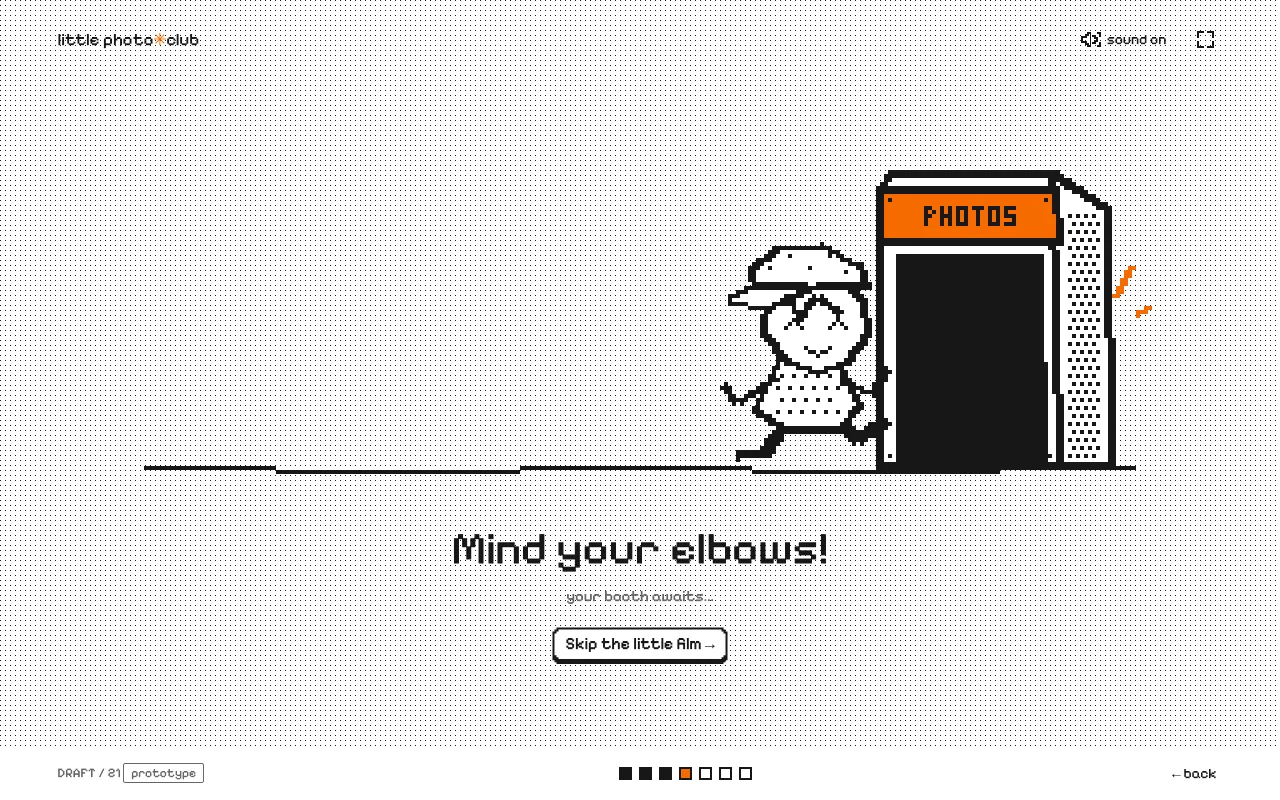
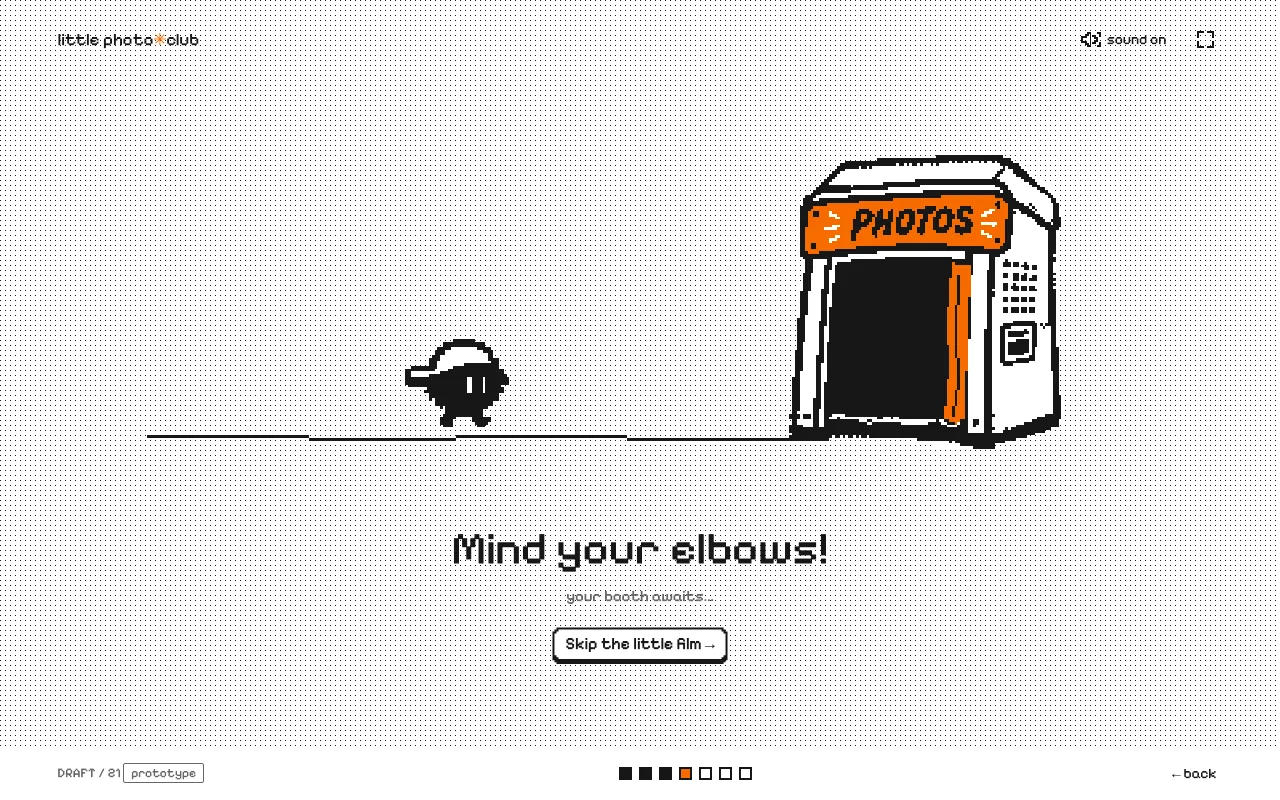
work: finish the Little Photo Club case study around draft 27
Make draft 27 the final design and update the cover, flow and counts to 25
numbered versions. Add three decisions: the rough cuts (generic doodle, then
the cast's man in v4), the silhouette booth-entrance animation (drafts 22-25)
and the printing strip with a full-size review (drafts 26-27). Fix the draft 13
wording so only the second version goes 1-bit, and update the outcome for the
finished v1 design. Reflection stays 'TODO' (hidden); still unpublished.

Changed region(s): [[0.125, 0.1875, 0.9062, 0.5938]]

diff --git a/src/content/work/little-photo-club.ts b/src/content/work/little-photo-club.ts
@@ -1,25 +1,27 @@
 import type { CaseStudy } from './types.ts'
 
 /*
- * Drafted from fourteen numbered HTML prototypes (drafts 07–21, Nov 25–26,
- * 2026), the four character sheets and the Figma case-study board. Screens are
- * Chrome captures at 1280×800; the camera images use the app's own "demo view"
- * so no webcam feed is shown. Reasons for each change are only written where
- * Giancarlo has said them (portrait, camera, reveal, click feel). The reveal's
- * reasoning is the developer's inference from the code; confirm it matches
- * the intent. Sourced figures: DSi 41M+ units (Nintendo, via Wikipedia), 44M
- * Flipnotes archived (Nintendo Life), photobooth revival (The Week).
- * The reveal reasoning was accepted for now and can change later.
- * Still to write, then flip `published` to true:
+ * Drafted from 25 numbered HTML prototypes (rough cuts v1–v6 and drafts 07–27,
+ * Nov 25–26, 2026; v5 and draft 14 were never recovered), the four character
+ * sheets and the Figma case-study board. Draft 27 is the final design. Screens
+ * are Chrome captures at 1280×800; the camera images use the app's own "demo
+ * view" so no webcam feed is shown. Reasons are written where Giancarlo has
+ * said them (portrait, camera, click feel); the reveal's reasoning is the
+ * developer's inference from the code and was accepted for now; the booth
+ * entrance and print animation are described from what the drafts show.
+ * Sourced figures: DSi 41M+ units (Nintendo, via Wikipedia), 44M Flipnotes
+ * archived (Nintendo Life), photobooth revival (The Week).
+ * Still to do before flipping `published` to true:
  *  - reflection (hidden while 'TODO')
- * Unpublished while the prototype is still changing.
+ *  - a Figma link in `links` once the board is shared
+ * Unpublished until then.
  */
 export const littlePhotoClub: CaseStudy = {
   slug: 'little-photo-club',
   published: false,
   title: 'Little Photo Club',
   summary:
-    'A nostalgic photobooth for the browser, built around a cast of four characters. Guests step in as the cast, take a four-frame strip and pick it up from a pixel dispenser. The characters came first, and their halftone ink set the look of everything else.',
+    'A nostalgic photobooth for the browser, built around a cast of four characters. Guests step in as the cast, take a four-frame strip and pick it up from a pixel dispenser. The cast’s halftone ink set the look of everything else.',
   cover: {
     type: 'image',
     src: 'cover.webp',
@@ -28,12 +30,12 @@ export const littlePhotoClub: CaseStudy = {
   snapshot: {
     role: 'Lead designer. I designed and built all of it myself: the characters, the interface and the working prototype.',
     team: 'Solo project',
-    timeline: 'Nov 25–26, 2026 · 14 numbered prototype drafts',
+    timeline: 'Nov 25–26, 2026 · 25 numbered versions',
     tools: ['HTML', 'CSS', 'JavaScript', 'Canvas', 'Web Audio'],
     platforms: ['Web (desktop browser)'],
     metrics: [
       { value: '4', label: 'characters' },
-      { value: '14', label: 'prototype drafts' },
+      { value: '25', label: 'numbered versions' },
       { value: '7', label: 'screens, start to finish' },
       { value: '1–4', label: 'guests per strip' },
     ],
@@ -51,7 +53,7 @@ export const littlePhotoClub: CaseStudy = {
     {
       title: 'Draw the cast first, then build the booth around it',
       why:
-        'The four characters were designed before any screen existed: a man, a woman, a baby and a cat, each on a sheet with expressions, back views, eye studies and a three-part palette. Black ink, halftone dots and one orange accent, with orange burst lines carrying the emotion.\n\nThat system shaped the pixel direction of the whole product. Later screens didn’t get a style of their own, they had to match the cast.',
+        'The four characters were designed as a set before the product took its look: a man, a woman, a baby and a cat, each on a sheet with expressions, back views, eye studies and a three-part palette. Black ink, halftone dots and one orange accent, with orange burst lines carrying the emotion.\n\nThat system shaped the pixel direction of the whole product. Later screens didn’t get a style of their own, they had to match the cast.',
       media: {
         type: 'image',
         src: 'cast-sheets.webp',
@@ -71,6 +73,17 @@ export const littlePhotoClub: CaseStudy = {
       caption: 'One to four guests: the cast assembles as the group grows.',
     },
     {
+      title: 'Start rough, then swap in the cast',
+      why:
+        'The first rough cuts already had the whole flow, from welcome to email, but the guest portrait was a generic curly-haired doodle on a cream page with handwritten copy. The page went white by v2, and in v4 the cast’s man replaced the doodle.\n\nThe six-scene flow was there from the first cut and only gained the coin screen later. What kept changing was the look.',
+      media: {
+        type: 'image',
+        src: 'rough-cuts.webp',
+        alt: 'Three guest setup screens side by side. Left, rough cut v1: a cream page, the headline “Room for one more?” and a curly-haired doodle in a tilted frame. Middle, v3: the same doodle on a white page. Right, v4: the cast’s man in a backwards cap in the same frame.',
+      },
+      caption: 'The guest screen in rough cut v1 (left), v3 (middle) and v4 (right).',
+    },
+    {
       title: 'Pull the whole interface into the characters’ ink',
       why:
         'Draft 07 already used the character art, but around it the interface was smooth: a marker-script “Welcome!”, a line-art camera and a plain white page. Over drafts 08 to 11 the world moved into the cast’s halftone language. A dot-dither floor replaced the blank page, “Welcome” became pixelated handwriting that writes itself on, and a dithered pixel camera with an orange accent replaced the line-art one. Draft 09 also added a pixel coin as a launch screen in front of everything.',
@@ -84,35 +97,57 @@ export const littlePhotoClub: CaseStudy = {
     {
       title: 'Make the character itself 1-bit',
       why:
-        'Through draft 12 the portrait on the guest screen was the smooth illustration, tilted in a frame. In draft 13 it becomes a straight, hard-edged 1-bit image in a frame with a hard drop shadow.\n\nThe reason was visual cohesion. I wanted the whole app to map to one nostalgic Flipnote-style look, and a smooth, tilted illustration sitting in a pixel world broke it. The file size also fell from about 7MB to about 400KB in that draft.',
+        'Through draft 12 the portrait on the guest screen was the smooth illustration, tilted in a frame, and the first Draft 13 still had it. In the second Draft 13 it becomes a straight, hard-edged 1-bit image in a frame with a hard drop shadow.\n\nThe reason was visual cohesion. I wanted the whole app to map to one nostalgic Flipnote-style look, and a smooth, tilted illustration sitting in a pixel world broke it. The file size also fell from about 7MB to about 400KB in that draft.',
       media: {
         type: 'image',
         src: 'portrait-before-after.webp',
-        alt: 'Two guest setup screens side by side. Left, draft 12: a smooth, tilted character portrait. Right, draft 13: the same portrait as straight, hard-edged 1-bit art with a drop shadow.',
+        alt: 'Two guest setup screens side by side. Left, draft 12: a smooth, tilted character portrait. Right, the second Draft 13: the same portrait as straight, hard-edged 1-bit art with a drop shadow.',
       },
-      caption: 'The guest portrait, draft 12 (left) and draft 13 (right).',
+      caption: 'The guest portrait, draft 12 (left) and the second Draft 13 (right).',
     },
     {
       title: 'Turn the camera into an arcade booth',
       why:
-        'In draft 07 the camera step was a video box with two plain buttons. By draft 21 it sits inside a camera housing, with a bar of six filters, a doodle frame option and a graffiti mode for drawing on the photos afterward. The demo view, used here so no one’s face appears, shows the same character in both drafts: a generic doodle at first, then the cast in 1-bit.\n\nThe fun of this app is merging two things people already love. Photobooths are having a revival, with young people flocking back to them. The Nintendo DSi sold over 41 million units, and its camera came with playful “lens” effects. The filters echo that on purpose: Distortion and Mischief are named after DSi Camera lenses, and Flipnote Ink nods to Flipnote Studio, the DSi drawing app whose fan-built archive holds about 44 million Flipnotes.',
+        'In draft 07 the camera step was a video box with two plain buttons. By draft 27 it sits inside a camera housing, with a bar of six filters, a doodle frame option and a graffiti mode for drawing on the photos afterward. The demo view, used here so no one’s face appears, shows the same character in both drafts: a generic doodle at first, then the cast in 1-bit.\n\nThe fun of this app is merging two things people already love. Photobooths are having a revival, with young people flocking back to them. The Nintendo DSi sold over 41 million units, and its camera came with playful “lens” effects. The filters echo that on purpose: Distortion and Mischief are named after DSi Camera lenses, and Flipnote Ink nods to Flipnote Studio, the DSi drawing app whose fan-built archive holds about 44 million Flipnotes.',
       media: {
         type: 'image',
         src: 'camera-before-after.webp',
-        alt: 'Two camera screens side by side. Left, draft 07: a simple doodle face in a plain frame with a Take photos button. Right, draft 21: a pixel camera housing, a row of filter icons, a 1-bit character in the viewfinder and extra Graffiti and Doodle frame buttons.',
+        alt: 'Two camera screens side by side. Left, draft 07: a simple doodle face in a plain frame with a Take photos button. Right, draft 27: a pixel camera housing, a row of filter icons, a 1-bit character in the viewfinder and extra Graffiti and Doodle frame buttons.',
       },
-      caption: 'The camera step in demo view, draft 07 (left) and draft 21 (right).',
+      caption: 'The camera step in demo view, draft 07 (left) and draft 27 (right).',
+    },
+    {
+      title: 'Hop into the booth',
+      why:
+        'The beat between choosing the group and posing is a short animation of the guests entering the booth, which can be skipped. In draft 21 it was a single character walking toward a dark doorway. Over drafts 22 to 25 I rebuilt it: a redesigned booth with a PHOTOS sign and an orange curtain, and little black silhouettes that hop in one by one.',
+      media: {
+        type: 'image',
+        src: 'booth-sequence.webp',
+        alt: 'Three booth-entrance screens side by side, all captioned “Mind your elbows!”. Left, draft 21: a pixel character walking toward a dark booth. Middle, draft 22: a stick-figure silhouette approaching a redesigned booth with an orange PHOTOS sign. Right, draft 27: a small round silhouette next to the booth, which now has an orange curtain.',
+      },
+      caption: 'The booth entrance: draft 21 (left), draft 22 (middle) and draft 27 (right).',
     },
     {
       title: 'Make the reveal a moment',
       why:
-        'The strip never just appears. In every draft the reveal is a dispenser: the strip waits in the slot, and the guest has to pick it up, which is when the sound plays and the photos open. As the developer I treated that as a deliberate gate. Showing the result straight away would make the booth a photo viewer, but one click target at the slot turns it into a hand-off, the pause a real booth gives you before the strip drops.\n\nAfter the pickup there’s a second gate: a “Keep it, or shall we try again?” choice before the email step, so a guest never sends a photo they haven’t approved. What changed between draft 07 and draft 21 is the art, not the logic. The orange vector booth with a recessed slot became a pixel dispenser with a PHOTOS sign, for the same cohesion as the portrait.',
+        'The strip never just appears. In every draft the reveal is a dispenser: the strip waits in the slot, and the guest has to pick it up, which is when the sound plays and the photos open. As the developer I treated that as a deliberate gate. Showing the result straight away would make the booth a photo viewer, but one click target at the slot turns it into a hand-off, the pause a real booth gives you before the strip drops.\n\nAfter the pickup there’s a second gate: a “Keep it, or shall we try again?” choice before the email step, so a guest never sends a photo they haven’t approved. What changed between draft 07 and draft 27 is the art and the motion. The orange vector booth with a recessed slot became a larger pixel dispenser with a PHOTOS sign.',
       media: {
         type: 'image',
         src: 'reveal-before-after.webp',
-        alt: 'Two reveal screens side by side. Left, draft 07: a four-frame strip inside an orange vector photobooth with a recessed photo slot. Right, draft 21: the strip in a pixel photo dispenser with a PHOTOS sign.',
+        alt: 'Two reveal screens side by side. Left, draft 07: a four-frame strip inside an orange vector photobooth with a recessed photo slot. Right, draft 27: the strip in a large pixel photo dispenser with a PHOTOS sign.',
       },
-      caption: 'The reveal, draft 07 (left) and draft 21 (right).',
+      caption: 'The reveal, draft 07 (left) and draft 27 (right).',
+    },
+    {
+      title: 'Let the strip print, then show it full size',
+      why:
+        'In drafts 26 and 27 the strip stops sitting in the slot and is released from the dispenser and lands, drawn on 12 fps holds so the motion steps like a flipbook, with the print sound kept in time. The pause while it prints is the closest the screen gets to waiting at a real booth.\n\nWhen the guest picks it up, the review now shows the strip at full size instead of a small thumbnail, so the photos are the focus before the guest decides whether to send them.',
+      media: {
+        type: 'image',
+        src: 'print-sequence.webp',
+        alt: 'Three reveal screens side by side. Left, draft 21: a small four-frame strip centered on the review screen with a Graffiti button. Middle, draft 27: the dispenser with the first frames of the strip just emerging from the slot. Right, draft 27: the strip at full size, filling most of the screen height.',
+      },
+      caption: 'The review in draft 21 (left), the strip printing in draft 27 (middle) and the full-size review in draft 27 (right).',
     },
     {
       title: 'Make every click answer back',
@@ -139,7 +174,7 @@ export const littlePhotoClub: CaseStudy = {
     {
       label: 'Enter the booth',
       src: 'flow-booth.webp',
-      alt: 'The booth entrance: a small character walking toward a pixel photobooth with a PHOTOS sign, and the line “Mind your elbows!”.',
+      alt: 'The booth entrance in draft 27: a small silhouette hopping toward a pixel photobooth with an orange curtain and a PHOTOS sign, and the line “Mind your elbows!”.',
     },
     {
       label: 'Camera',
@@ -149,7 +184,7 @@ export const littlePhotoClub: CaseStudy = {
     {
       label: 'Reveal',
       src: 'flow-reveal.webp',
-      alt: 'The reveal screen: a four-frame photo strip inside a pixel photo dispenser with an orange PHOTOS sign.',
+      alt: 'The reveal screen in draft 27: a large pixel photo dispenser with an orange PHOTOS sign and the strip waiting in the slot.',
     },
     {
       label: 'Email',
@@ -159,7 +194,7 @@ export const littlePhotoClub: CaseStudy = {
   ],
   finalDesign: {
     text:
-      'Draft 21 is the current build: seven screens from coin to “Special delivery!”, in the same order since draft 07 apart from the coin screen added in draft 09. The cast, the dithered floor, the orange accent and the pixel dispenser are all in place. The email step is a prototype: nothing is sent or saved.',
+      'Draft 27 is the final design: seven screens from coin to “Special delivery!”, in the same order since the first rough cut apart from the coin screen added in draft 09. The cast, the dithered floor, the orange accent, the booth-entrance animation and the printing dispenser are all in place. The email step is a prototype: nothing is sent or saved.',
     media: [
       {
         type: 'image',
@@ -169,7 +204,7 @@ export const littlePhotoClub: CaseStudy = {
       {
         type: 'image',
         src: 'flow-reveal.webp',
-        alt: 'The reveal screen: a four-frame photo strip inside a pixel photo dispenser.',
+        alt: 'The reveal screen: a large pixel photo dispenser with the strip waiting in the slot.',
       },
     ],
   },
@@ -181,6 +216,6 @@ export const littlePhotoClub: CaseStudy = {
     { label: 'Source: Photo booths are having a revival', href: 'https://theweek.com/culture-life/why-photo-booths-are-enjoying-a-revival' },
   ],
   outcome:
-    'Still a prototype. Draft 21 is the current build, and so far only I have used it, so there are no user results to report yet.',
+    'The design for v1 is finished: draft 27 is the final prototype, and real code comes next. So far only I have used it, so there are no user results to report yet.',
   reflection: 'TODO',
 }
